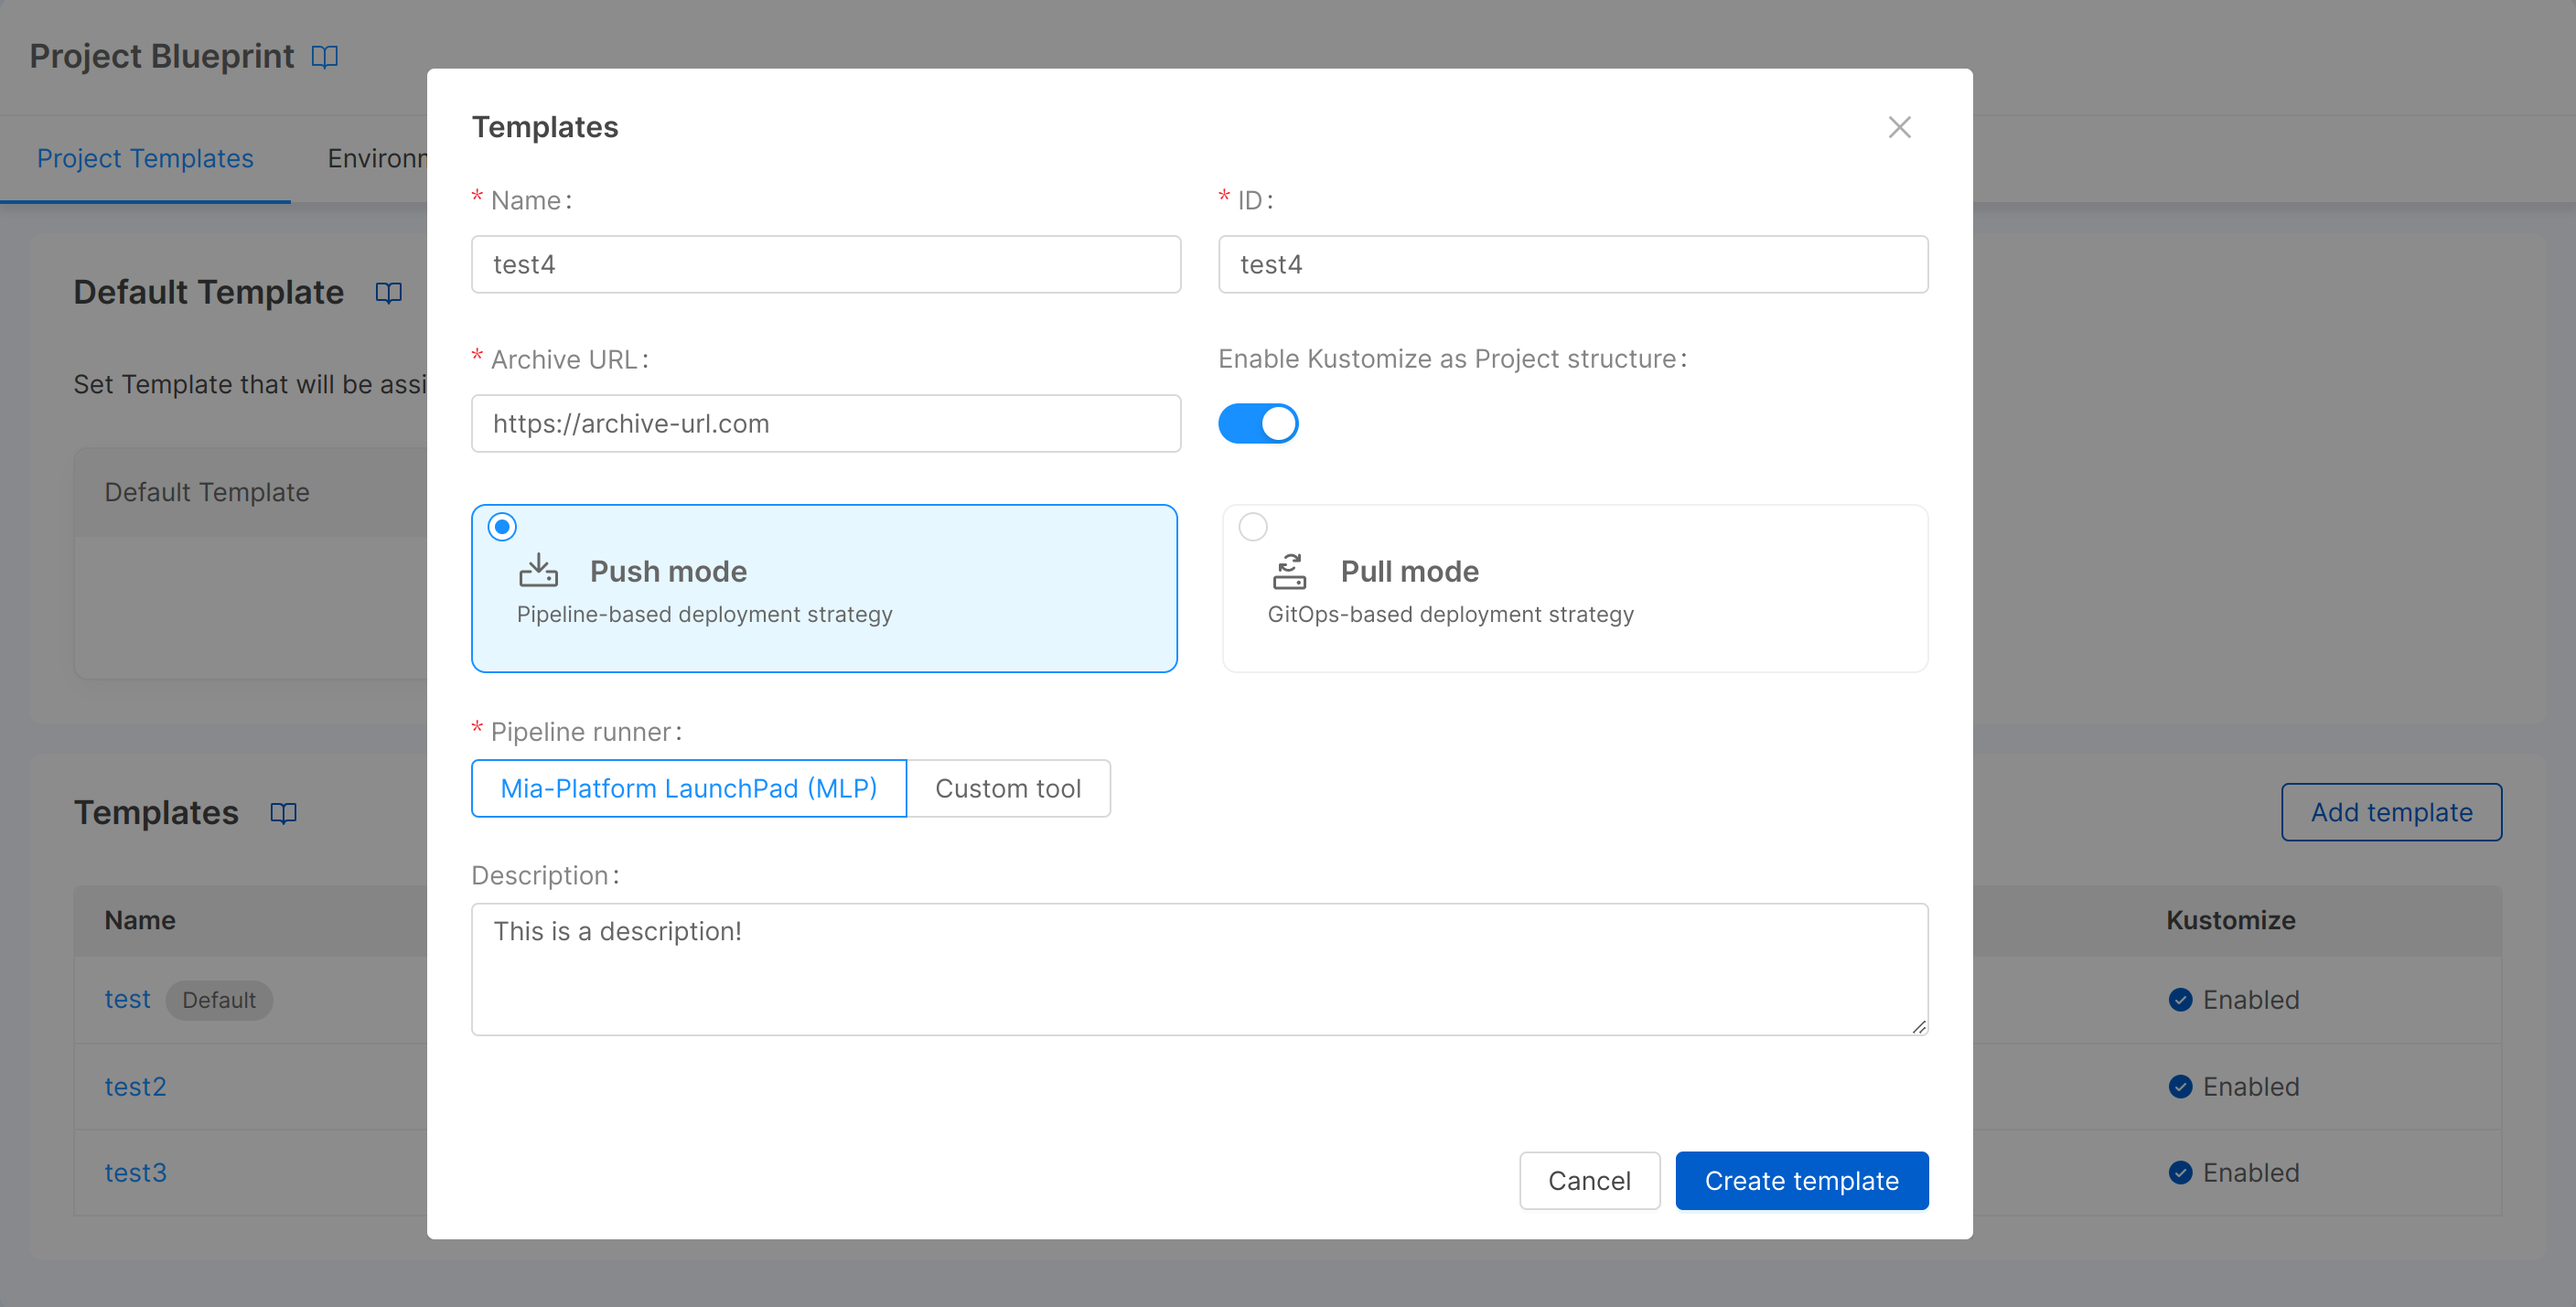
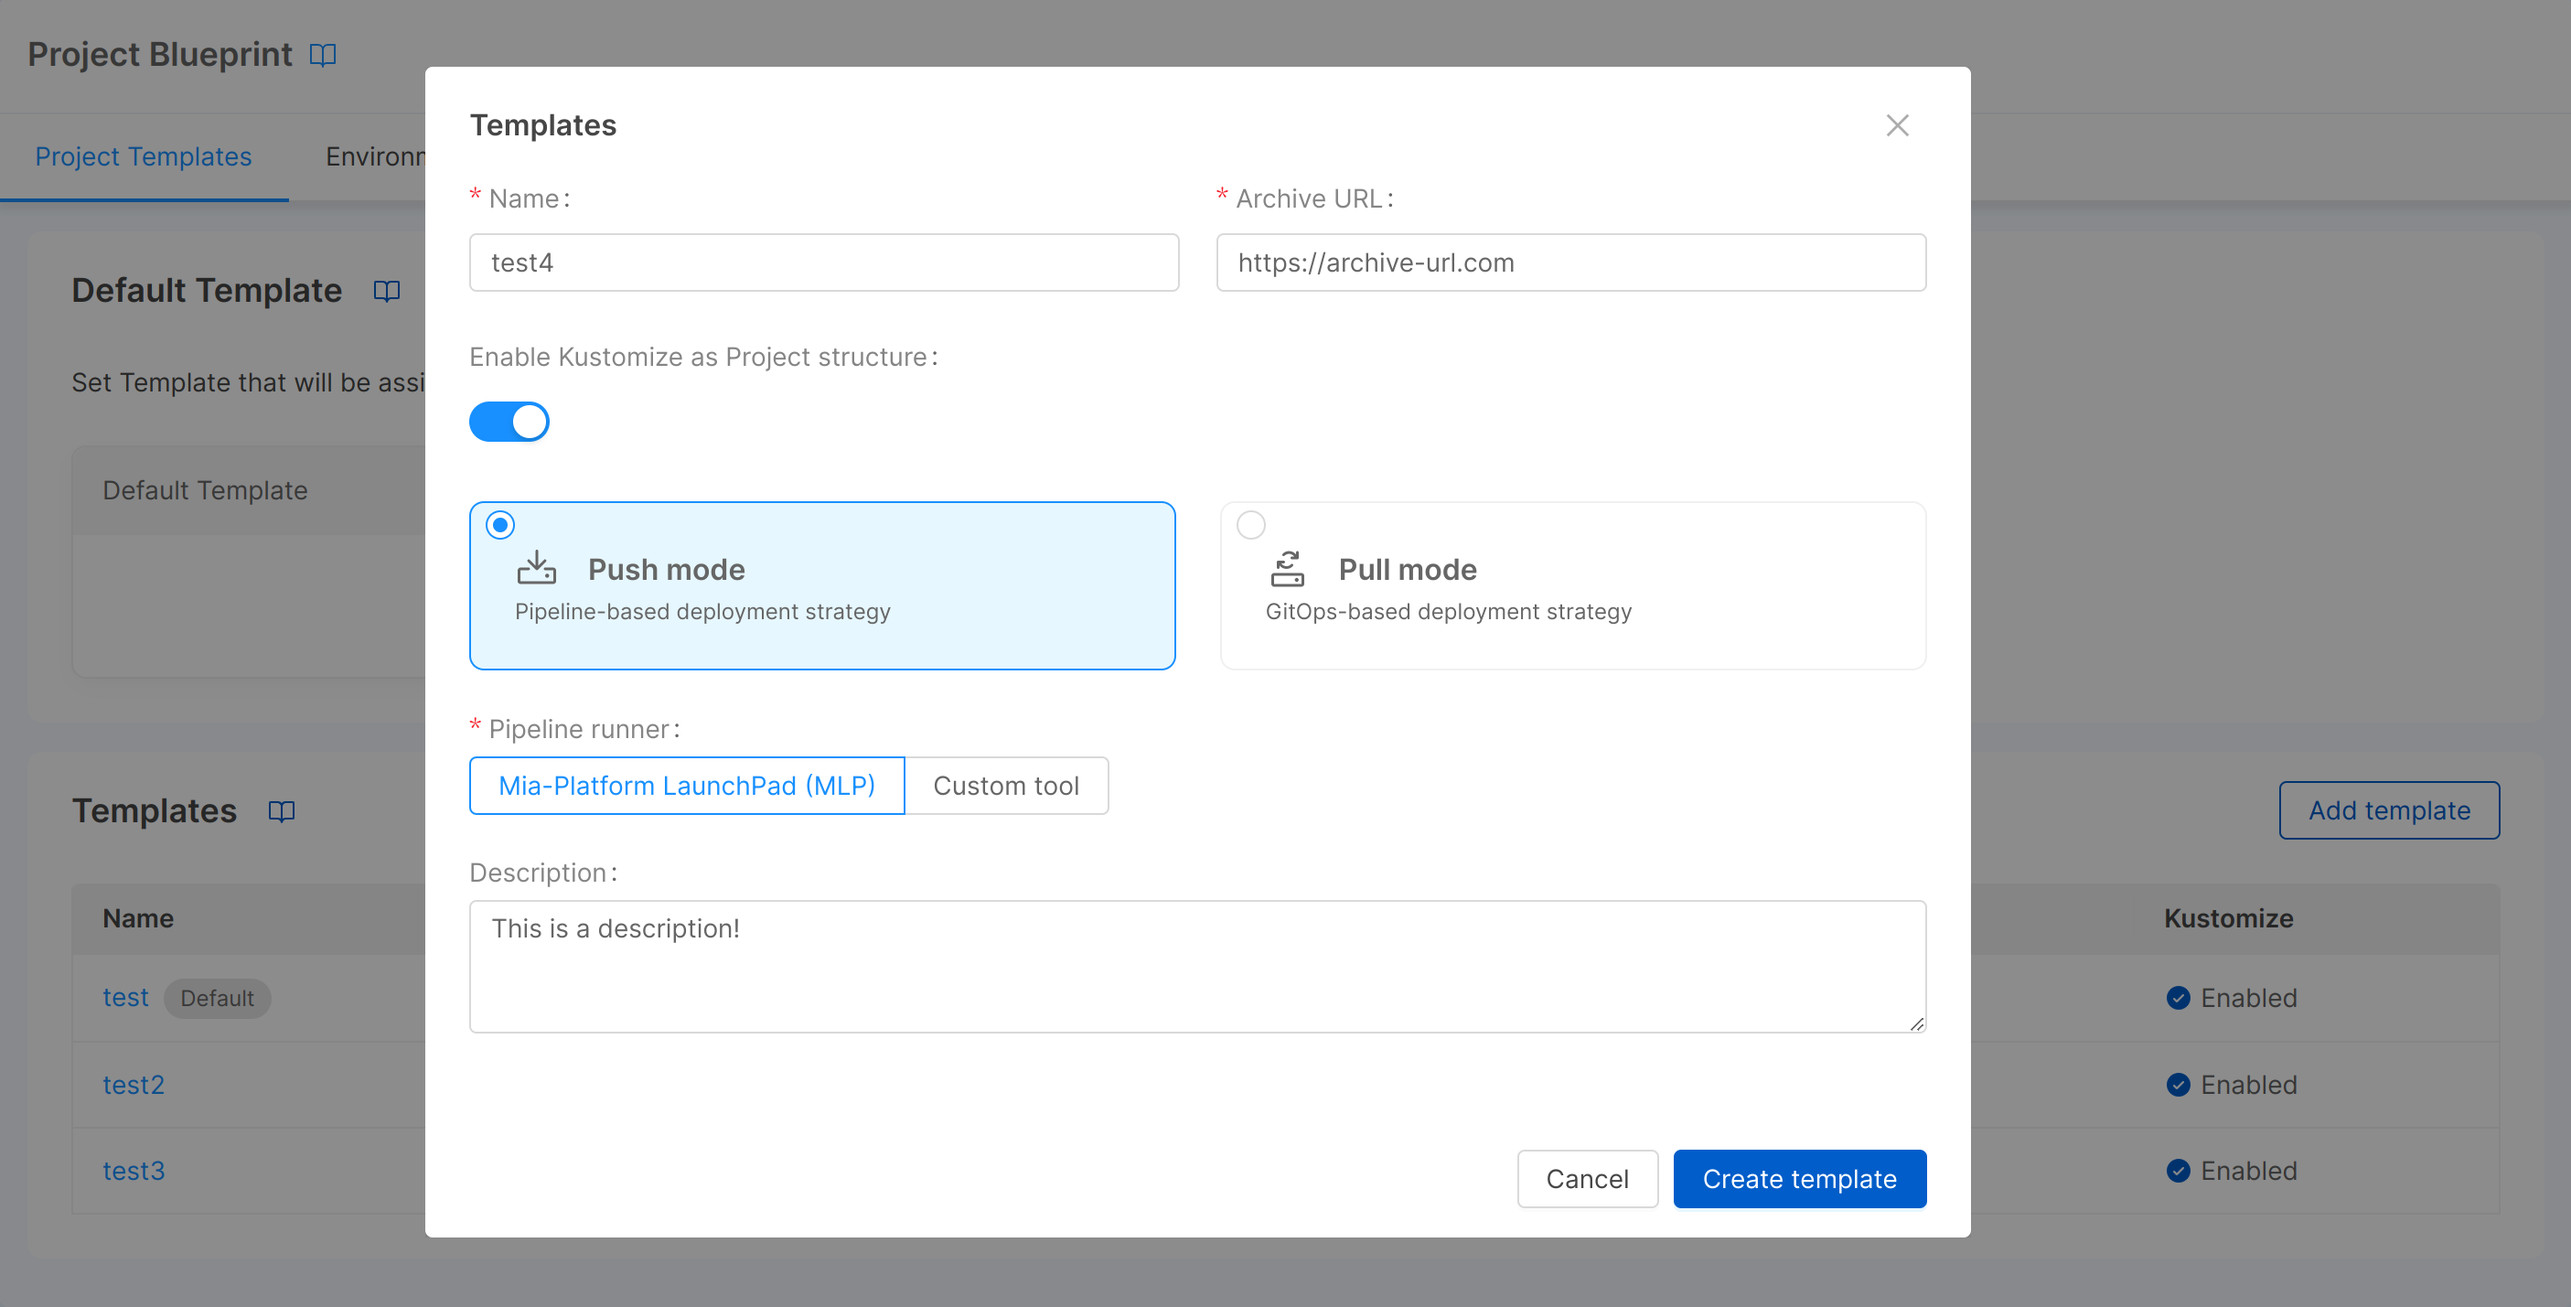
ID-related info removed

diff --git a/docs/development_suite/company/project-blueprint.md b/docs/development_suite/company/project-blueprint.md
@@ -24,8 +24,7 @@ There are 2 cards in this section: the first displays the default template for t
 You can create a new template using the "Add template" button of the card. A modal will open requiring the following information:
 
 - **Name** (*required*): the name of the template;
-- **ID** (*required*): the human-readable ID of the template (e.g. "mia-platform-multitenant-template"). It must adhere to this regex: `(^[a-z]+[a-z0-9-]*$)`;
-- **Archive URL** (*required*): URL to a zip/gzip of the base Project configuration folder. All contents of this folder will be copied into the target configuration, and correctly interpolated. If you want to create a custom template, click [here](#how-to-create-a-project-archive) to see how to do it; //TODO
+- **Archive URL** (*required*): URL to a zip/gzip of the base Project configuration folder. All contents of this folder will be copied into the target configuration, and correctly interpolated. If you want to create a custom template, click [here](#how-to-create-a-project-archive) to see how to do it;
 - **Enable Kustomize as Project structure**: whether the Project uses Kustomize as a configuration management tool for Project microservices (more info on Kustomize can be found [here](/console/project-configuration/kustomize-your-configurations/index.md));
 - **Deployment strategy**: it could be either push mode (pipeline-based) or pull mode (GitOps-based);
 - **Pipeline runner** (*required*): choose MLP if the Project uses it as command line deployment tool. It is required to have the [Smart Deploy](/development_suite/deploy/overview.md#smart-deploy) feature enabled;
@@ -49,7 +48,7 @@ If at least one template is configured on the blueprint, you will also be able t
 
 You can edit template information from its detail page, accessible by clicking on the template name in the table. Three cards are shown here:
 
-- **General**: shows the general information of the template: name, ID, archive URL and description. You can edit this information (except for ID) by clicking on the "Edit" button of the card;
+- **General**: shows the general information of the template: name, archive URL and description. You can edit this information by clicking on the "Edit" button of the card;
 
 ![templates general](img/templates-general.png)
 
